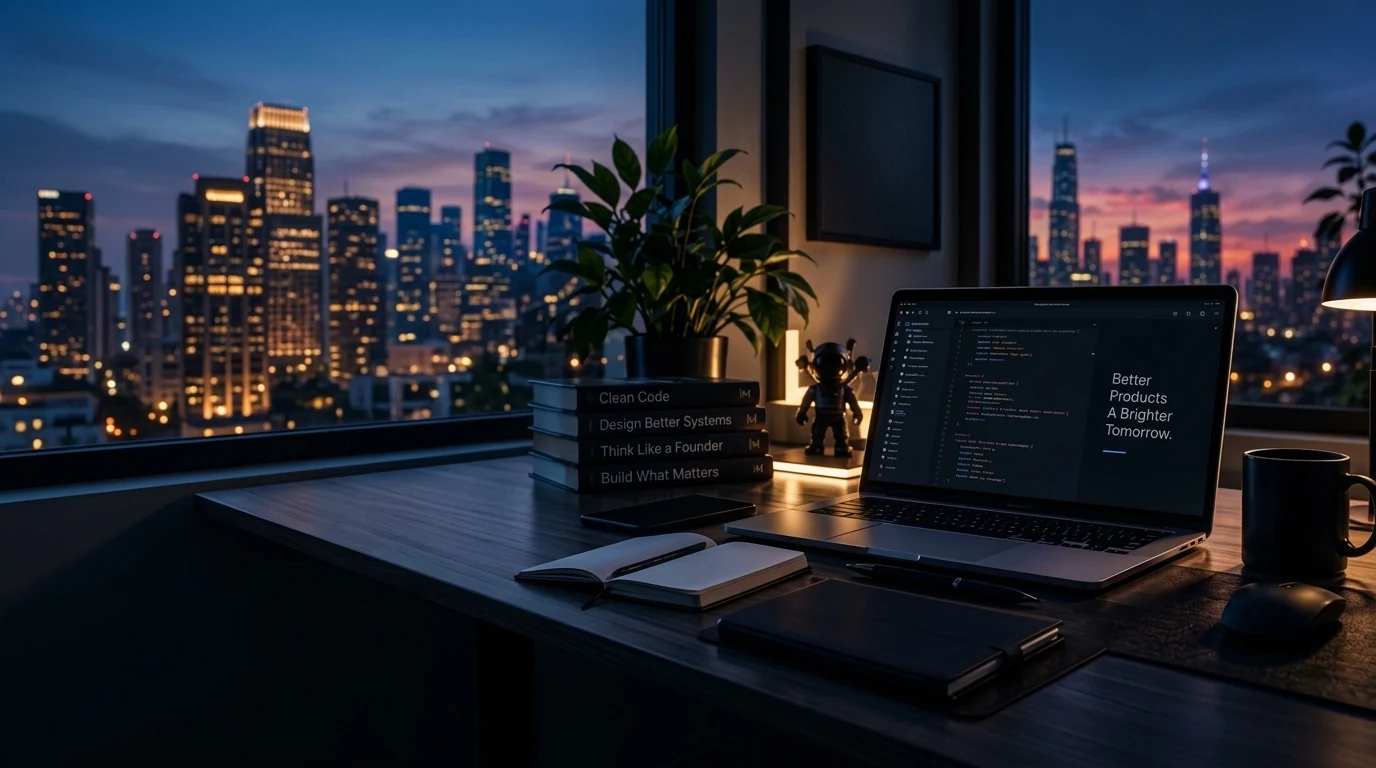
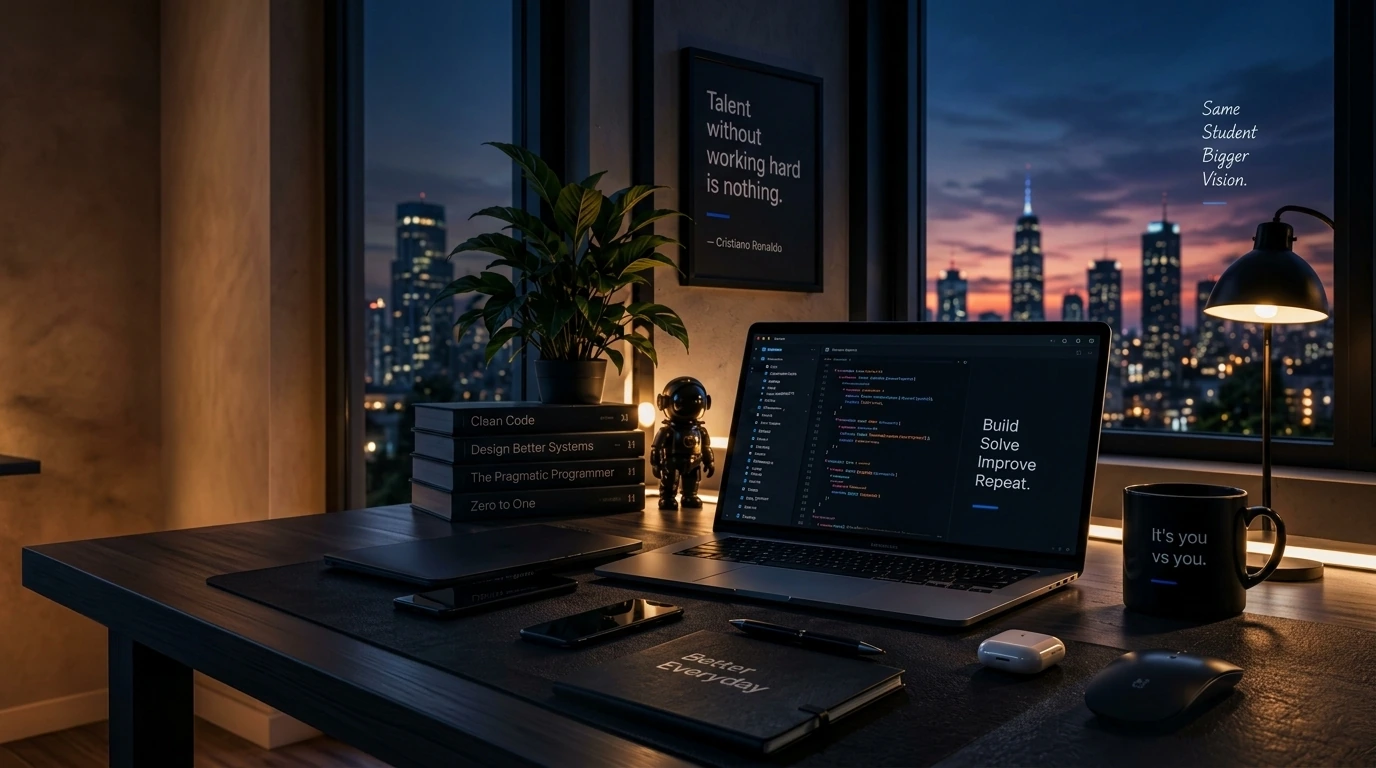
Refine hero typography to 10/10 minimalist standard and use crystal-clear vivid workspace background

diff --git a/src/components/sections/Hero.jsx b/src/components/sections/Hero.jsx
@@ -1,7 +1,7 @@
 import { motion } from "framer-motion";
 import { ArrowRight, Mail, Lightbulb, Code2, Box, BarChart3, MapPin } from "lucide-react";
 
-// The 4 interactive bento tiles from the reference mockup
+// The 4 interactive bento tiles
 const bentoCards = [
   {
     number: "01",
@@ -9,7 +9,6 @@ const bentoCards = [
     description: "Turning ideas into real solutions.",
     icon: Lightbulb,
     href: "#about",
-    glowColor: "from-blue-500/20 to-cyan-500/10",
   },
   {
     number: "02",
@@ -17,7 +16,6 @@ const bentoCards = [
     description: "Writing clean, scalable code.",
     icon: Code2,
     href: "#skills",
-    glowColor: "from-indigo-500/20 to-blue-500/10",
   },
   {
     number: "03",
@@ -25,7 +23,6 @@ const bentoCards = [
     description: "Building products that create value.",
     icon: Box,
     href: "#projects",
-    glowColor: "from-cyan-500/20 to-indigo-500/10",
   },
   {
     number: "04",
@@ -33,7 +30,6 @@ const bentoCards = [
     description: "Solving real problems, for real people.",
     icon: BarChart3,
     href: "#experience",
-    glowColor: "from-blue-500/20 to-purple-500/10",
   },
 ];
 
@@ -44,18 +40,18 @@ const containerVariants = {
     opacity: 1,
     transition: {
       staggerChildren: 0.08,
-      delayChildren: 0.15,
+      delayChildren: 0.1,
     },
   },
 };
 
 const itemVariants = {
-  hidden: { opacity: 0, y: 20 },
+  hidden: { opacity: 0, y: 16 },
   visible: {
     opacity: 1,
     y: 0,
     transition: {
-      duration: 0.6,
+      duration: 0.55,
       ease: [0.16, 1, 0.3, 1],
     },
   },
@@ -65,65 +61,28 @@ export default function Hero() {
   return (
     <section
       id="top"
-      className="relative min-h-screen w-full flex flex-col justify-between overflow-hidden pt-28 pb-10 select-none"
+      className="relative min-h-screen w-full flex flex-col justify-between overflow-hidden pt-28 pb-8 select-none"
     >
       {/* =========================================================================
           ATMOSPHERIC WORKSPACE BACKGROUND
-          High-performance LCP image with fetchpriority="high" and dark gradient masks
+          Crystal-clear, sharp, vivid developer desk image.
+          Left-edge gradient ensures high text contrast; right side remains 100% luminous and crisp.
           ========================================================================= */}
       <div className="absolute inset-0 z-0 pointer-events-none overflow-hidden">
-        {/* Crisp WebP Background Photograph */}
         <img
           src="/hero-workspace.webp"
           alt="Atmospheric Developer Workspace"
           fetchPriority="high"
           decoding="async"
-          className="w-full h-full object-cover object-right lg:object-center opacity-85 transition-opacity duration-1000"
+          className="w-full h-full object-cover object-right lg:object-center opacity-100"
         />
 
-        {/* Cinematic gradient overlays for contrast and smooth blending */}
-        <div className="absolute inset-0 bg-gradient-to-r from-zinc-950 via-zinc-950/80 to-transparent sm:via-zinc-950/60 sm:to-zinc-950/20 lg:from-zinc-950/95 lg:via-zinc-950/50 lg:to-transparent" />
-        <div className="absolute inset-0 bg-gradient-to-t from-zinc-950 via-zinc-950/40 to-transparent" />
-        <div className="absolute top-0 inset-x-0 h-32 bg-gradient-to-b from-zinc-950/80 to-transparent" />
+        {/* Subtle left-side dark gradient ONLY under the text/cards column */}
+        <div className="absolute inset-y-0 left-0 w-full sm:w-2/3 lg:w-[52%] bg-gradient-to-r from-zinc-950/90 via-zinc-950/60 to-transparent pointer-events-none" />
 
-        {/* Ambient subtle blue backlight glow */}
-        <div className="absolute top-1/4 left-1/4 w-96 h-96 bg-blue-600/10 rounded-full blur-3xl pointer-events-none mix-blend-screen" />
+        {/* Soft bottom edge blend into the next section */}
+        <div className="absolute bottom-0 inset-x-0 h-28 bg-gradient-to-t from-zinc-950 via-zinc-950/50 to-transparent pointer-events-none" />
       </div>
-
-      {/* =========================================================================
-          BACKGROUND ATMOSPHERIC QUOTES (From Reference Mockup)
-          ========================================================================= */}
-      {/* Top-Right Window Handwritten Quote */}
-      <motion.div
-        initial={{ opacity: 0, scale: 0.95 }}
-        animate={{ opacity: 1, scale: 1 }}
-        transition={{ duration: 1.2, delay: 0.6 }}
-        className="hidden lg:block absolute top-28 right-16 z-10 text-right pointer-events-none select-none"
-      >
-        <p className="font-handwriting text-zinc-300/85 text-2xl font-bold leading-tight drop-shadow-[0_2px_12px_rgba(0,0,0,0.8)] -rotate-3">
-          Same<br />
-          Student<br />
-          Bigger<br />
-          Vision.
-        </p>
-      </motion.div>
-
-      {/* Center/Right Ambient Framed Wall Quote */}
-      <motion.div
-        initial={{ opacity: 0 }}
-        animate={{ opacity: 1 }}
-        transition={{ duration: 1, delay: 0.8 }}
-        className="hidden xl:block absolute top-24 left-[58%] z-10 pointer-events-none select-none"
-      >
-        <div className="border border-white/5 bg-black/40 backdrop-blur-sm px-4 py-3 rounded-lg shadow-xl">
-          <p className="text-zinc-300 font-bold text-sm tracking-tight leading-snug">
-            Discipline<br />
-            Builds<br />
-            Freedom.
-          </p>
-          <div className="w-6 h-[2px] bg-blue-500/80 mt-1.5 rounded-full" />
-        </div>
-      </motion.div>
 
       {/* =========================================================================
           MAIN HERO CONTENT (Left Column)
@@ -133,57 +92,57 @@ export default function Hero() {
           variants={containerVariants}
           initial="hidden"
           animate="visible"
-          className="max-w-2xl flex flex-col items-start text-left"
+          className="max-w-xl lg:max-w-2xl flex flex-col items-start text-left space-y-6"
         >
           {/* Tag Badge */}
-          <motion.div variants={itemVariants} className="mb-6">
-            <div className="inline-flex items-center gap-2 px-3.5 py-1.5 rounded-full bg-slate-900/60 border border-white/10 backdrop-blur-md shadow-lg shadow-black/40">
-              <span className="w-2 h-2 rounded-full bg-blue-400 shadow-[0_0_8px_#38bdf8] animate-pulse" />
-              <span className="text-[11px] sm:text-xs font-semibold tracking-[0.18em] text-zinc-300 uppercase">
+          <motion.div variants={itemVariants}>
+            <div className="inline-flex items-center gap-2 px-3 py-1 rounded-full bg-zinc-900/50 border border-white/[0.08] backdrop-blur-md shadow-md">
+              <span className="w-1.5 h-1.5 rounded-full bg-blue-500 shadow-[0_0_8px_#3b82f6] animate-pulse" />
+              <span className="text-[10.5px] sm:text-[11px] font-semibold tracking-[0.2em] text-zinc-300 uppercase">
                 BUILD &bull; LEARN &bull; SOLVE &bull; REPEAT
               </span>
             </div>
           </motion.div>
 
           {/* Main Headline */}
-          <motion.div variants={itemVariants} className="mb-6">
-            <h1 className="text-5xl sm:text-7xl lg:text-[82px] font-black tracking-[-0.035em] text-white leading-[1.02]">
+          <motion.div variants={itemVariants}>
+            <h1 className="text-5xl sm:text-6xl md:text-7xl lg:text-[76px] font-extrabold tracking-[-0.04em] text-white leading-[1.02]">
               Hi, I’m<br />
               Sautrik{" "}
-              <span className="text-transparent bg-clip-text bg-gradient-to-r from-blue-400 via-indigo-400 to-cyan-400 drop-shadow-[0_0_35px_rgba(59,130,246,0.65)] font-display">
+              <span className="text-transparent bg-clip-text bg-gradient-to-r from-blue-500 via-blue-400 to-indigo-400 drop-shadow-[0_0_24px_rgba(59,130,246,0.5)]">
                 Roy.
               </span>
             </h1>
           </motion.div>
 
           {/* Sub-headline description */}
-          <motion.div variants={itemVariants} className="mb-8">
-            <p className="text-base sm:text-lg text-zinc-300/90 leading-relaxed max-w-xl font-normal">
+          <motion.div variants={itemVariants}>
+            <p className="text-base sm:text-[17px] text-zinc-300/85 font-normal leading-relaxed max-w-lg">
               I build full-stack and AI-powered products that turn complex problems into elegant,
               impactful experiences.
             </p>
           </motion.div>
 
           {/* Call-to-Action Buttons */}
-          <motion.div variants={itemVariants} className="flex flex-wrap items-center gap-4 mb-12 sm:mb-14">
+          <motion.div variants={itemVariants} className="flex flex-wrap items-center gap-3.5 pt-1">
             <motion.a
               href="#projects"
-              whileHover={{ scale: 1.03 }}
+              whileHover={{ scale: 1.02 }}
               whileTap={{ scale: 0.98 }}
-              className="group inline-flex items-center justify-center gap-2.5 px-7 py-3.5 rounded-2xl font-semibold text-white bg-gradient-to-r from-blue-600 via-blue-500 to-indigo-600 shadow-[0_0_25px_rgba(37,99,235,0.55)] hover:shadow-[0_0_35px_rgba(37,99,235,0.85)] transition-shadow duration-300"
+              className="group inline-flex items-center justify-center gap-2 px-6 py-2.5 sm:py-3 rounded-full text-sm font-semibold text-white bg-gradient-to-r from-blue-600 via-blue-500 to-indigo-600 shadow-[0_0_20px_rgba(37,99,235,0.45)] hover:shadow-[0_0_28px_rgba(37,99,235,0.7)] transition-all duration-200"
             >
-              <span className="text-sm sm:text-base font-semibold">View My Work</span>
-              <ArrowRight className="w-4 h-4 transition-transform duration-200 group-hover:translate-x-1" />
+              <span>View My Work</span>
+              <ArrowRight className="w-4 h-4 transition-transform duration-200 group-hover:translate-x-0.5" />
             </motion.a>
 
             <motion.a
               href="#contact"
-              whileHover={{ scale: 1.03 }}
+              whileHover={{ scale: 1.02 }}
               whileTap={{ scale: 0.98 }}
-              className="group inline-flex items-center justify-center gap-2.5 px-6 py-3.5 rounded-2xl font-semibold text-zinc-200 bg-slate-950/60 hover:bg-slate-900/80 border border-white/10 hover:border-white/25 backdrop-blur-xl shadow-lg transition-all duration-300"
+              className="group inline-flex items-center justify-center gap-2 px-5 py-2.5 sm:py-3 rounded-full text-sm font-medium text-zinc-200 bg-zinc-950/40 hover:bg-zinc-900/60 border border-white/10 hover:border-white/20 backdrop-blur-xl transition-all duration-200 shadow-sm"
             >
-              <span className="text-sm sm:text-base font-semibold">Get in Touch</span>
-              <Mail className="w-4 h-4 text-zinc-400 group-hover:text-white transition-colors" />
+              <span>Get in Touch</span>
+              <Mail className="w-4 h-4 text-zinc-400 group-hover:text-zinc-200 transition-colors" />
             </motion.a>
           </motion.div>
 
@@ -192,7 +151,7 @@ export default function Hero() {
               ========================================================================= */}
           <motion.div
             variants={itemVariants}
-            className="w-full grid grid-cols-2 sm:grid-cols-4 gap-3 sm:gap-3.5 max-w-xl lg:max-w-2xl"
+            className="w-full grid grid-cols-2 sm:grid-cols-4 gap-3 max-w-xl lg:max-w-2xl pt-2"
           >
             {bentoCards.map((card) => {
               const Icon = card.icon;
@@ -200,36 +159,33 @@ export default function Hero() {
                 <motion.a
                   key={card.number}
                   href={card.href}
-                  whileHover={{ y: -5, scale: 1.02 }}
+                  whileHover={{ y: -4 }}
                   whileTap={{ scale: 0.98 }}
                   transition={{ type: "spring", stiffness: 400, damping: 25 }}
-                  className="group relative flex flex-col justify-between p-4 rounded-2xl glass-tile hover:border-blue-500/50 hover:shadow-[0_0_25px_rgba(59,130,246,0.25)] transition-all duration-300 cursor-pointer overflow-hidden"
+                  className="group relative flex flex-col justify-between p-3.5 rounded-xl bg-zinc-950/30 hover:bg-zinc-900/40 backdrop-blur-xl border border-white/[0.08] hover:border-blue-500/40 shadow-lg hover:shadow-[0_0_20px_rgba(59,130,246,0.15)] transition-all duration-300 cursor-pointer overflow-hidden"
                 >
-                  {/* Subtle hover gradient illumination */}
-                  <div className="absolute inset-0 bg-gradient-to-br from-blue-500/0 via-blue-500/0 to-blue-500/10 opacity-0 group-hover:opacity-100 transition-opacity duration-300 pointer-events-none" />
-
                   {/* Top Row: Icon + Number */}
-                  <div className="relative z-10 flex items-center justify-between mb-3">
-                    <div className="w-8 h-8 rounded-xl bg-blue-500/10 border border-blue-500/20 flex items-center justify-center text-blue-400 group-hover:text-blue-300 group-hover:border-blue-400/40 group-hover:shadow-[0_0_12px_rgba(59,130,246,0.4)] transition-all duration-200">
-                      <Icon className="w-4 h-4" />
+                  <div className="relative z-10 flex items-center justify-between mb-2.5">
+                    <div className="w-7 h-7 rounded-lg bg-blue-500/10 border border-blue-500/20 flex items-center justify-center text-blue-400 group-hover:text-blue-300 group-hover:border-blue-400/40 transition-colors">
+                      <Icon className="w-3.5 h-3.5" />
                     </div>
-                    <span className="text-[11px] font-mono font-medium text-zinc-300 tracking-wider">
+                    <span className="text-[10px] font-mono font-medium text-zinc-300">
                       {card.number}
                     </span>
                   </div>
 
                   {/* Title & Description */}
                   <div className="relative z-10 text-left">
-                    <h2 className="text-sm sm:text-base font-bold text-white mb-1 tracking-tight group-hover:text-blue-200 transition-colors">
+                    <h2 className="text-sm font-semibold text-white mb-0.5 tracking-tight group-hover:text-blue-300 transition-colors">
                       {card.title}
                     </h2>
-                    <p className="text-[11px] sm:text-xs text-zinc-300/80 leading-snug line-clamp-2">
+                    <p className="text-[11px] text-zinc-300/80 leading-snug line-clamp-2">
                       {card.description}
                     </p>
                   </div>
 
-                  {/* Bottom neon accent line on hover */}
-                  <div className="absolute bottom-0 inset-x-3 h-[2px] bg-gradient-to-r from-transparent via-blue-400/0 to-transparent group-hover:via-blue-400 group-hover:shadow-[0_0_8px_#60a5fa] transition-all duration-300" />
+                  {/* Subtle bottom line highlight on hover */}
+                  <div className="absolute bottom-0 inset-x-3 h-[1.5px] bg-gradient-to-r from-transparent via-blue-400/0 to-transparent group-hover:via-blue-400 transition-all duration-300" />
                 </motion.a>
               );
             })}
@@ -241,30 +197,30 @@ export default function Hero() {
           BOTTOM META BAR (Scroll to Explore & Location)
           ========================================================================= */}
       <motion.div
-        initial={{ opacity: 0, y: 15 }}
+        initial={{ opacity: 0, y: 10 }}
         animate={{ opacity: 1, y: 0 }}
-        transition={{ duration: 0.8, delay: 0.9 }}
-        className="relative z-10 w-full max-w-7xl mx-auto px-6 sm:px-10 lg:px-12 pt-10 sm:pt-14 flex items-center justify-between text-zinc-300"
+        transition={{ duration: 0.6, delay: 0.7 }}
+        className="relative z-10 w-full max-w-7xl mx-auto px-6 sm:px-10 lg:px-12 pt-8 flex items-center justify-between text-zinc-300"
       >
         {/* Scroll Indicator (Left) */}
         <a
           href="#about"
-          className="group flex items-center gap-3 text-[11px] sm:text-xs font-semibold tracking-widest uppercase hover:text-white transition-colors cursor-pointer"
+          className="group flex items-center gap-2.5 text-[11px] font-medium tracking-widest uppercase hover:text-white transition-colors cursor-pointer"
         >
           {/* Animated Mouse Icon */}
-          <div className="w-4 h-7 rounded-full border border-zinc-300/60 group-hover:border-blue-400 flex items-start justify-center p-1 transition-colors">
+          <div className="w-4 h-6 rounded-full border border-zinc-300/60 group-hover:border-blue-400 flex items-start justify-center p-1 transition-colors">
             <motion.div
-              animate={{ y: [0, 8, 0] }}
+              animate={{ y: [0, 6, 0] }}
               transition={{ repeat: Infinity, duration: 1.8, ease: "easeInOut" }}
               className="w-1 h-1.5 rounded-full bg-zinc-400 group-hover:bg-blue-400"
             />
           </div>
           <span>SCROLL TO EXPLORE</span>
-          <div className="w-10 h-[1px] bg-zinc-300/40 group-hover:w-14 group-hover:bg-blue-400 transition-all duration-300" />
+          <div className="w-8 h-[1px] bg-zinc-300/40 group-hover:w-12 group-hover:bg-blue-400 transition-all duration-300" />
         </a>
 
         {/* Location Indicator (Right) */}
-        <div className="flex items-center gap-2 text-[12px] sm:text-xs font-medium text-zinc-300/90">
+        <div className="flex items-center gap-1.5 text-[12px] font-medium text-zinc-300/90">
           <MapPin className="w-3.5 h-3.5 text-blue-400" />
           <span>Chennai, India</span>
         </div>
